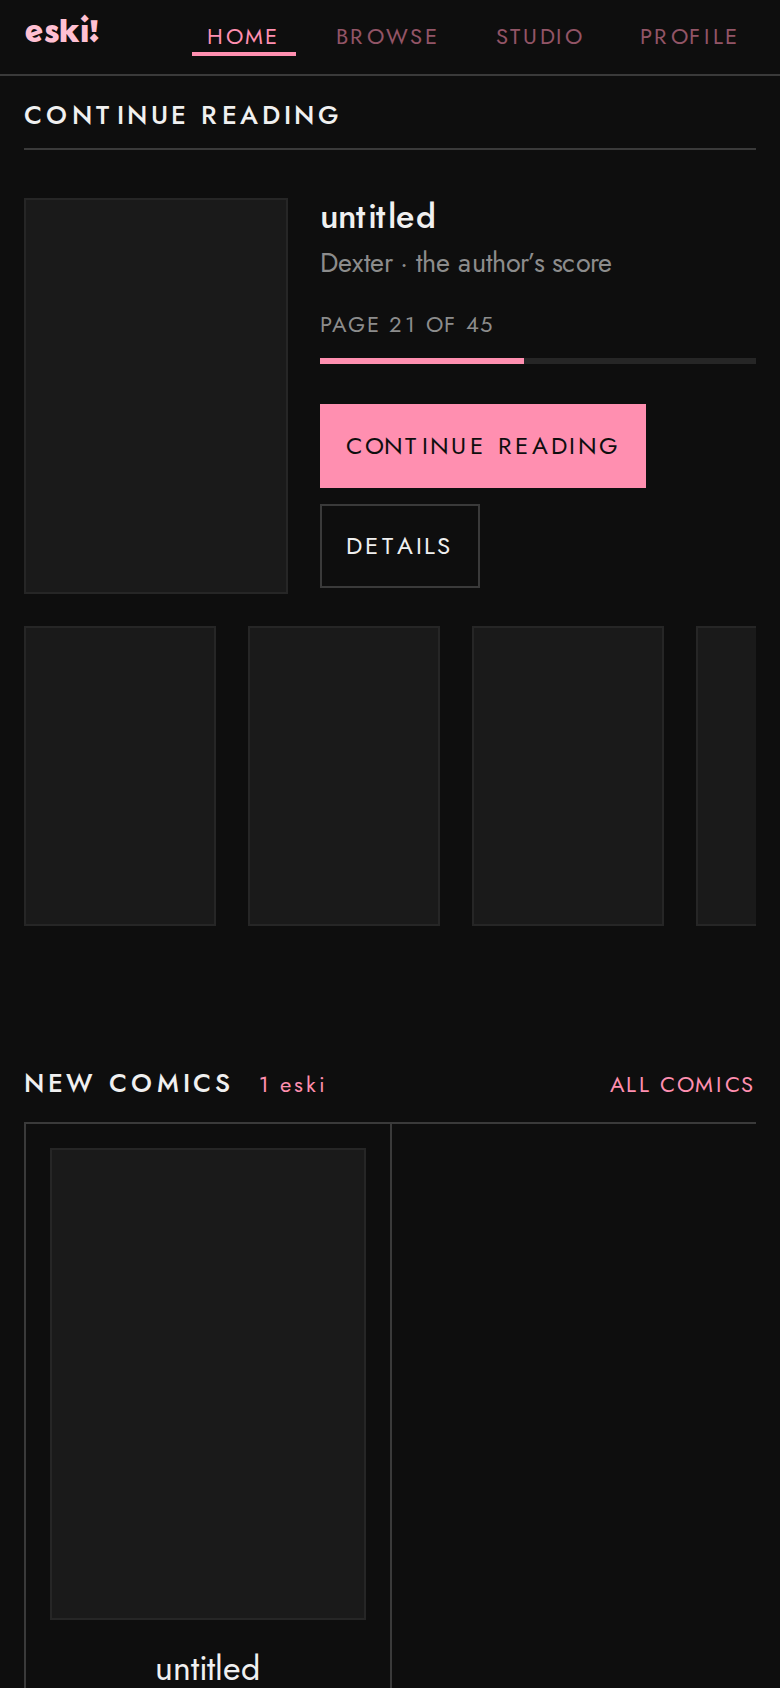
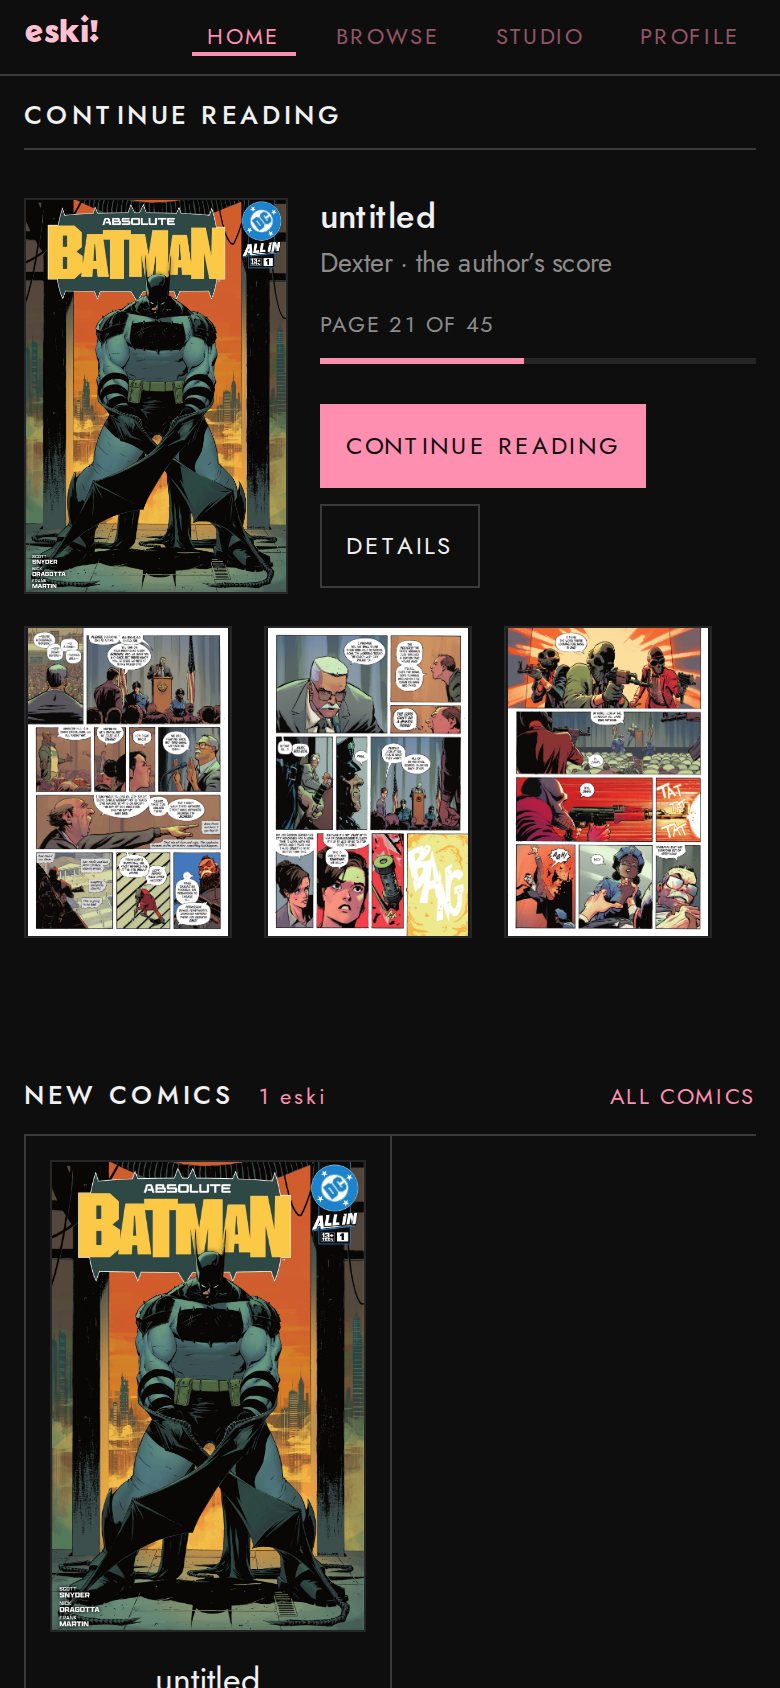
A page in the continue-reading rail is page-shaped again
The thumbnails were a fixed 118px wide at the cover's full height — a 1:3
letterbox — with object-fit:cover cropping each page down to a vertical
stripe of itself. Five of those fitted, which is why there were five. But
a comic page you cannot recognise is not doing the one job this row
exists for, which is reminding you what was happening when you stopped.

So the plate carries aspect-ratio 2/3 and the image is CONTAINed inside
it, the same way the studios' page strips already work: a page that is
not quite 2:3 letterboxes onto the plate rather than losing its edges.
Three of them, at 60% of the cover, bottom-aligned with it. Full cover
height would make each page as big as the cover and leave room for two;
at 60% they read as pages beside a cover rather than as four covers, and
the row still ends flush with the plate next to it.

Two things that fell out of the resize. The middle column was 1fr, so it
took every spare pixel and shoved the strip against the right edge —
with five slivers that was invisible, with three real pages it left a
lake of nothing across the middle of the row. The meta column is
max-content now, capped at 46ch so a long title still wraps, and the 1fr
moved to the right of the strip, so cover, credits and pages read as one
group and the row simply ends. And the responsive ladder stops at two
rather than dropping to one: a single thumbnail beside a cover reads as
a thing that failed to load rather than as a choice, and the window
[…]

diff --git a/index.html b/index.html
@@ -70,19 +70,23 @@ section + section{margin-top:var(--s6)}
    height, with the strip a short way below it and a band of nothing under
    both.
 
-   The strip is the same height as the cover for the same reason: two things
-   side by side that nearly line up read as a mistake. They line up exactly.
-
-   AND IT TRAILS OFF. The last page in the strip is where your bookmark is,
-   so the row does not end, it continues — the mask says that in the only way
-   a still image can. It also means the strip no longer stops in a hard
-   vertical edge halfway across the page. */
+   The strip BOTTOM-ALIGNS with the cover rather than matching its height:
+   two things side by side that nearly line up read as a mistake, so they
+   share an edge. The pages are smaller than the cover on purpose — the cover
+   identifies the comic, and three thumbnails should not out-shout it. */
+/* THE SLACK GOES ON THE END, not between the credits and the pages. With the
+   middle column at 1fr it took every spare pixel and shoved the strip against
+   the right edge, leaving a lake of nothing across the middle of the row. The
+   meta column is max-content now (capped, so a long title still wraps) and the
+   1fr moved to the right of the strip — so cover, credits and pages read as
+   one group and the row simply ends, which is what the strip already says. */
 .rs{--rs-cover:232px;
-  display:grid;grid-template-columns:var(--rs-cover) minmax(0,1fr) auto;gap:var(--s5);
+  display:grid;grid-template-columns:var(--rs-cover) minmax(0,max-content) auto;
+  gap:var(--s5);
   align-items:start;padding:var(--s5) 0;border-bottom:var(--bw) solid var(--rule-hair)}
 .rs:last-child{border-bottom:0}
 .rs .plate.rs-cover{width:var(--rs-cover);aspect-ratio:2/3;flex:none}
-.rs-meta{min-width:0;display:flex;flex-direction:column;gap:var(--s1)}
+.rs-meta{min-width:0;max-width:46ch;display:flex;flex-direction:column;gap:var(--s1)}
 .rs-ttl{font-size:var(--fs-title);font-weight:500;line-height:1.15}
 .rs-by{font-size:var(--fs-sm);color:var(--label)}
 .rs-at{font-size:var(--fs-micro);letter-spacing:.1em;text-transform:uppercase;
@@ -91,37 +95,50 @@ section + section{margin-top:var(--s6)}
 .rs .progress i{display:block;height:100%;background:var(--mark)}
 .rs-acts{display:flex;gap:var(--s2);margin-top:var(--s4);flex-wrap:wrap}
 
-/* the strip stands exactly as tall as the cover: --rs-cover * 3/2.
+/* A PAGE IS PAGE-SHAPED. These were a fixed 118px wide at the cover's full
+   height — a 1:3 letterbox — with object-fit:cover cropping each page to a
+   vertical sliver of itself. A comic page you cannot recognise is not doing
+   the job this row exists for, which is reminding you what was happening.
+
+   So the plate carries aspect-ratio 2/3 and the image is CONTAINed inside it,
+   which is what the studios' page strips already do: a page that is not quite
+   2:3 letterboxes onto the plate instead of losing its edges.
+
+   Three at 60% of the cover, bottom-aligned with it. Full cover height would
+   make each page as big as the cover and there would be room for two; at 60%
+   they read as pages next to a cover rather than as four covers, and the row
+   still ends flush with the bottom of the plate beside it.
 
    NO FADE. A mask said "there is more over here" — but there is not: this is
-   the five pages you have read and the row ends. It was decoration doing the
-   job of an affordance that leads nowhere, and it dimmed real artwork to do
-   it. The row simply stops now, which is also what the rest of the site does.
-
-   The gap is a proper gutter rather than --s2, because these are separate
-   pages of a comic and at 4px they read as one torn strip. */
-.rs-strip{--rs-h:calc(var(--rs-cover) * 1.5);--rs-w:118px;
-  display:flex;gap:var(--s4)}
+   where your bookmark is and the row ends. It was decoration doing the job of
+   an affordance that leads nowhere, and it dimmed real artwork to do it. */
+.rs-strip{--rs-w:calc(var(--rs-cover) * .6);
+  display:flex;gap:var(--s4);align-self:end}
 .rs-pg{margin:0;width:var(--rs-w);flex:none}
-.rs-pg img{display:block;width:100%;height:var(--rs-h);object-fit:cover;object-position:top;
+.rs-pg img,.rs-blank{display:block;width:100%;aspect-ratio:2/3;
+  object-fit:contain;object-position:center;
   border:var(--bw) solid var(--rule-hair);background:var(--plate-bg)}
-.rs-blank{display:block;height:var(--rs-h);border:var(--bw) solid var(--rule-hair);
-  background:var(--plate-bg)}
+[data-dark] .rs-pg img,[data-dark] .rs-blank{background:var(--surface)}
 
-/* drop pages off the OLD end as the row narrows — the newest is the one you
-   need. with a wider gutter the row runs out of space sooner, so these break
-   earlier than they did. */
-@media(max-width:1360px){ .rs-pg:nth-child(1){display:none} }
-@media(max-width:1190px){ .rs-pg:nth-child(2){display:none} }
-@media(max-width:1020px){ .rs-pg:nth-child(3){display:none} }
+/* THREE, then TWO, then three again on a full-width row below 880. The oldest
+   goes first: the last page you saw is the one you need, and it is on the
+   right.
+
+   It stops at two rather than dropping to one. A single thumbnail beside a
+   cover reads as a thing that failed to load, not as a deliberate choice, and
+   the window where it would have shown was about 120px wide. */
+@media(max-width:1180px){ .rs-pg:nth-child(1){display:none} }
 @media(max-width:880px){
   .rs{--rs-cover:180px;grid-template-columns:var(--rs-cover) minmax(0,1fr)}
-  .rs-strip{grid-column:1 / -1;--rs-h:210px;overflow:hidden}
+  .rs-meta{max-width:none}
+  /* below the pair rather than beside it, so the pages keep their shape
+     instead of being squeezed into whatever is left of the row */
+  .rs-strip{grid-column:1 / -1;align-self:start;overflow:hidden}
   .rs-pg{display:block!important}
 }
 @media(max-width:560px){
   .rs{--rs-cover:132px;gap:var(--s4)}
-  .rs-strip{--rs-h:150px;--rs-w:96px}
+  .rs-strip{--rs-w:104px}
   .rs-ttl{font-size:var(--fs-lg)}
 }
 
@@ -1234,9 +1251,11 @@ function renderResume(){
 
   box.innerHTML = going.map(c => {
     const page = Math.max(1, Math.round(c.progress * c.pp));
-    /* five, not three: at three the row of pages ended a long way short of
-       the cover and left a band of nothing between it and everything else */
-    const back = [page - 4, page - 3, page - 2, page - 1, page].filter(n => n >= 1);
+    /* THREE, because a page has to be page-shaped to be worth showing. Five
+       only fitted by squashing each one into a 1:3 sliver, which is not a
+       comic page — it is a stripe of one. Three at their real proportions
+       tell you what was happening; five cropped ones do not. */
+    const back = [page - 2, page - 1, page].filter(n => n >= 1);
     const strip = back.map(n => {
       const url = pageUrl(c, n);
       /* no caption. the page number is already on the row, once, in the line
